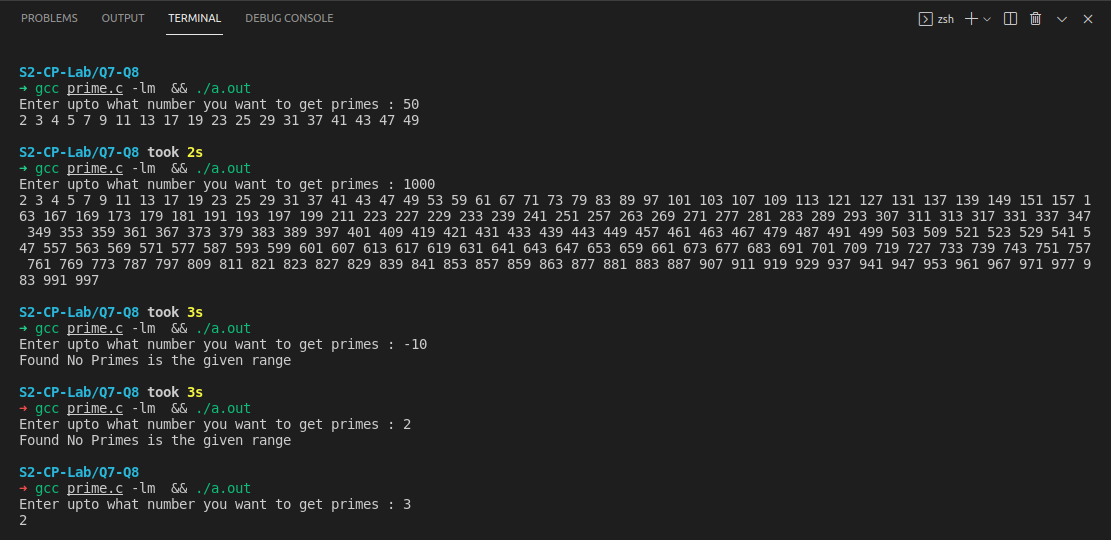
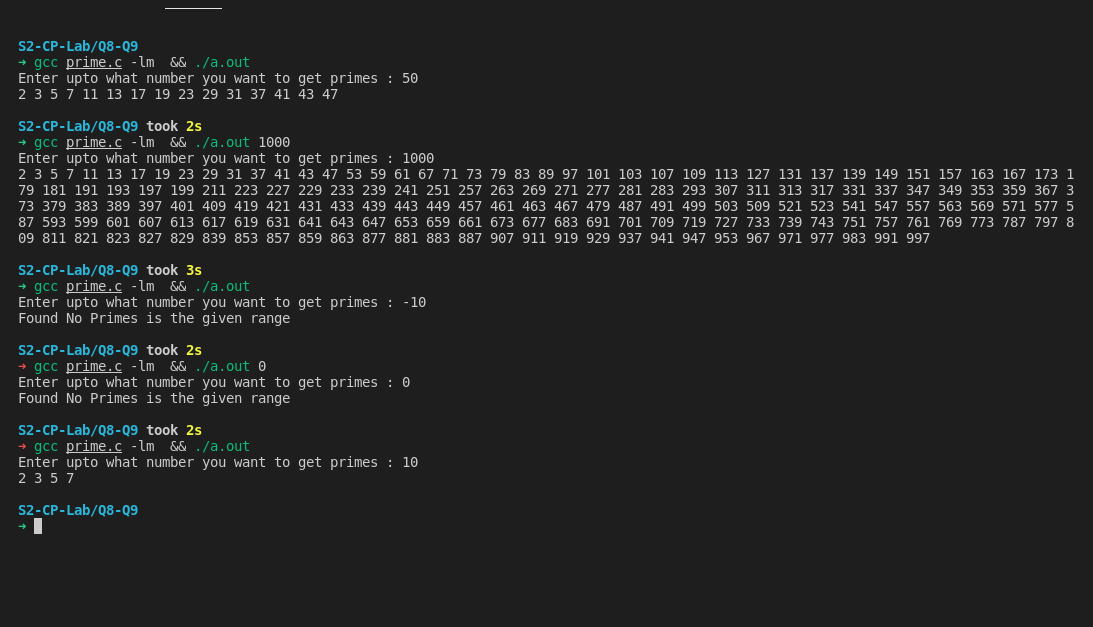
bug fix

Changed region(s): [[0.0, 0.0, 0.9954, 0.9481], [0.8088, 0.0, 0.9643, 0.0593], [0.3733, 0.6222, 0.4044, 0.6519]]

diff --git a/Q8-Q9/prime.c b/Q8-Q9/prime.c
@@ -3,7 +3,7 @@
 
 int isPrime(int number, int previousPrimes[])
 {
-    for(int i = 0; previousPrimes[i] < sqrt(number); i++)
+    for(int i = 0; previousPrimes[i] < (int) sqrt(number) + 1; i++)
         if(number % previousPrimes[i] == 0)
             return 0;
 
